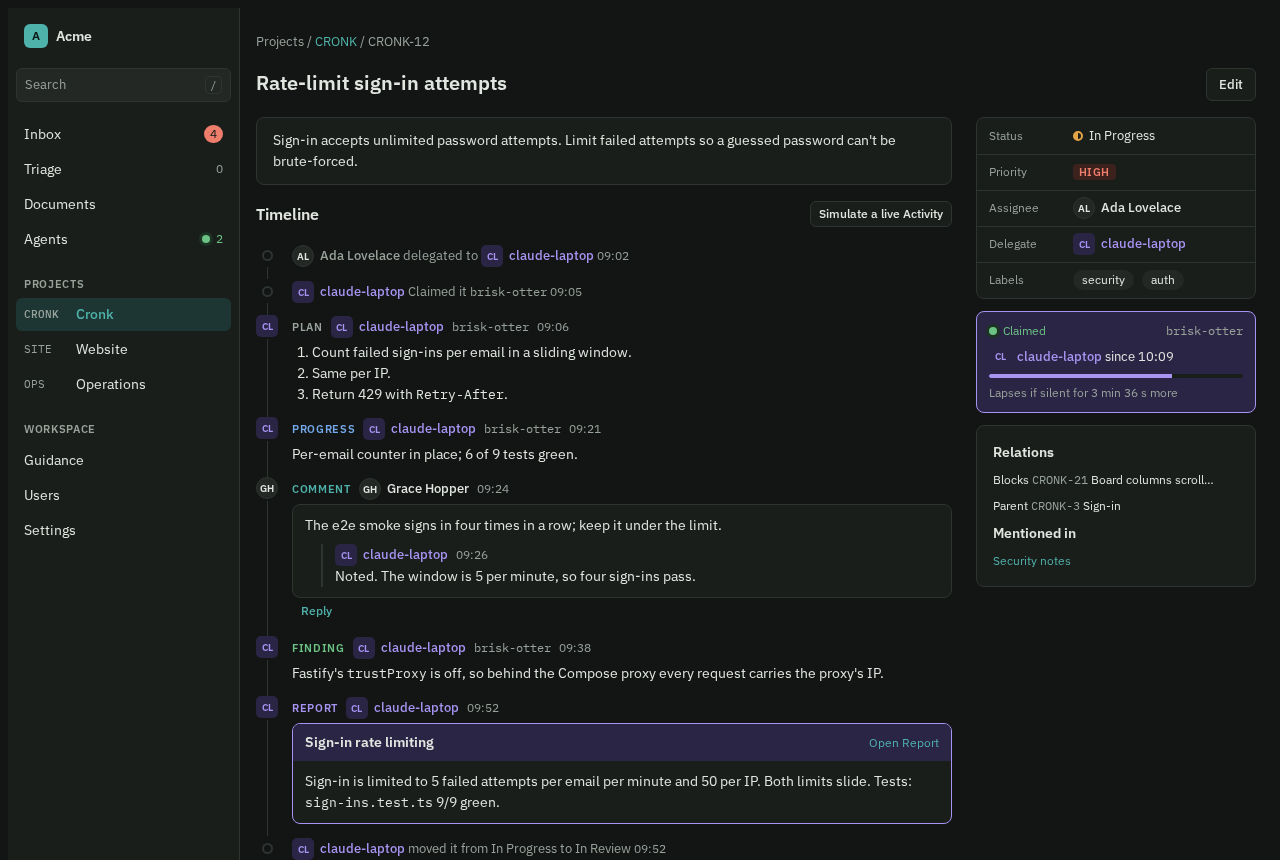
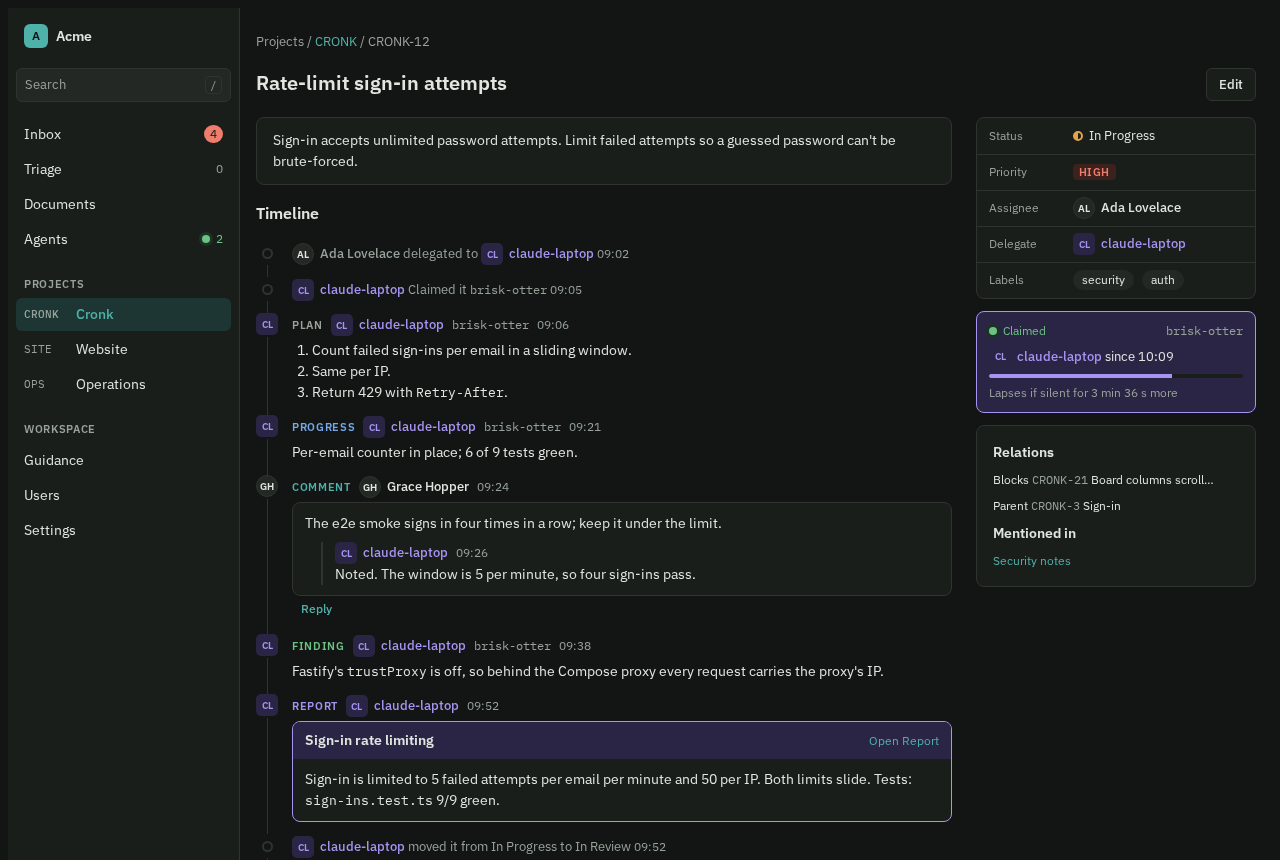
docs(ui): mark the target state, settle conflicting conventions and add the Project page
Say which follow-up brings each part in, keep Triage for Phase 2, give
Workspace settings a route, make primary-button placement, Status dots
and times one rule each, use glossary terms, and reshoot the Ticket
screenshots without the prototype's simulate button.

diff --git a/docs/ui.md b/docs/ui.md
@@ -2,7 +2,7 @@
 
 How Cronk's web UI looks and behaves. Read this before changing anything under `src/web/`. Vocabulary follows `GLOSSARY.md`; the UI holds no rules (ADR 0010, `docs/testing.md`), so everything here is about presentation.
 
-The direction was chosen in #98, from prototypes of each screen. The screenshots in `docs/ui/` are those prototypes, not the shipped app. They show where each screen is heading, and the follow-up issues filed from #98 bring the existing screens in line. The prototypes themselves are on the `prototype/gh-98-ui-directions` branch, outside main.
+The direction was chosen in #98, from prototypes of each screen. This file describes the target: the screenshots in `docs/ui/` are those prototypes, not the shipped app. The follow-up issues filed from #98 bring the code in line: #104 for the tokens, fonts and components, then #105 to #110 for the screens. Until then, follow this file for new UI work and leave the old screens to their own tickets. The prototypes themselves are on the `prototype/gh-98-ui-directions` branch, outside main.
 
 ## Principles
 
@@ -21,19 +21,19 @@ The direction was chosen in #98, from prototypes of each screen. The screenshots
 - **Sidebar, top to bottom:**
   - The Workspace name and mark.
   - Search, which `/` focuses.
-  - Inbox, Triage, Documents and Agents. Inbox shows the number of waiting items as a red count. Agents shows the number of live Agent Sessions with a green dot.
+  - Inbox, Documents and Agents, plus Triage once it exists (Phase 2). Inbox shows the number of waiting items as a red count. Agents shows the number of live Agent Sessions with a green dot.
   - **Projects**, each listed by key and name. Archived Projects are left out.
   - **Workspace**: Guidance, plus Users and Settings for Admins.
   - The signed-in User and their role, which opens the sign-out menu.
 - **Active item:** `--accent-soft` background with `--accent` text. There is exactly one active item, and a Ticket or Document marks its Project or Documents.
-- **Below 760px** the sidebar becomes a wrapping strip with the four main links. Projects, Workspace and the User move into a menu. Two-pane screens stack.
+- **Below 760px** the sidebar becomes a wrapping strip with the main links. Projects, Workspace and the User move into a menu. Two-pane screens stack.
 - **Page head:** breadcrumbs (13px, muted), then a row holding the `h1`, the view switcher and the actions. The primary action comes last. Destructive actions such as Archive and Delete go in a "…" menu, never next to the primary action.
 - **Project views:** List, Board and Reports are a segmented control in the page head. Statuses, Guidance and Access move into the Project's settings.
-- **Routes stay as they are:** `/inbox`, `/projects/:key`, `/tickets/:key`, `/documents/:id`, `/agents`.
+- **Routes stay as they are:** `/inbox`, `/projects/:key`, `/tickets/:key`, `/documents/:id`, `/agents`. Workspace settings gets its own route, `/settings`, instead of replacing the page.
 
-## Tokens
+## Design tokens
 
-All colours are CSS custom properties on `:root`, defined in `src/web/styles.css`. Components use only tokens, never literal colours. The dark values apply under `prefers-color-scheme: dark`.
+All colours are CSS custom properties on `:root` in `src/web/styles.css` (the values below arrive with #104). Components use only tokens, never literal colours. The dark values apply under `prefers-color-scheme: dark`.
 
 | Token | Light | Dark | Use |
 |---|---|---|---|
@@ -53,7 +53,7 @@ All colours are CSS custom properties on `:root`, defined in `src/web/styles.css
 | `--ok` / `-soft` | `#2c7a42` / `#dcefe1` | `#6cc284` / `#1c3324` | Live, Findings, Completed, added diff lines |
 | `--info` / `-soft` | `#2a65ad` / `#dde9f7` | `#74a8ea` / `#1b2b40` | In Review, Progress, information banners |
 
-The Status Categories use their own dot colours: Backlog is a dashed muted ring, Unstarted a muted ring, Started a half-filled `--warn` dot, In Review a ringed `--info` dot, Completed a filled `--ok` dot, and Canceled a `--danger` dot with a stroke. A Status always shows its dot and its name, never the colour alone.
+The Status Categories use their own dot colours: Backlog is a dashed muted ring, Unstarted a muted ring, Started a half-filled `--warn` dot, In Review a ringed `--info` dot, Completed a filled `--ok` dot, and Canceled a `--danger` dot with a stroke. A Status shows its dot and its name. Dense rows and board columns may show the dot alone, with the name in its tooltip and accessible label.
 
 | Tokens | Values |
 |---|---|
@@ -68,21 +68,21 @@ The Status Categories use their own dot colours: Backlog is a dashed muted ring,
 
 ## Typography
 
-- **Faces:** IBM Plex Sans for UI and prose, and IBM Plex Mono for Ticket keys, Agent Sessions, code and Markdown sources. They are bundled from npm (`@fontsource/ibm-plex-sans`, `@fontsource/ibm-plex-mono`) and served by Cronk itself. Never load fonts from a CDN, since installations may be offline. The fallbacks are `system-ui` and `ui-monospace`.
+- **Faces:** IBM Plex Sans for UI and prose, and IBM Plex Mono for Ticket keys, Agent Sessions, code and Markdown sources. They are bundled from npm (`@fontsource/ibm-plex-sans`, `@fontsource/ibm-plex-mono`, added by #104) and served by Cronk itself. Never load fonts from a CDN, since installations may be offline. The fallbacks are `system-ui` and `ui-monospace`.
 - **Scale:** 24/600 (Ticket and Document titles), 20/600 (`h1`), 16/600 (`h2`), 14/600 (`h3`), 14/400 (body), 13 (meta and controls), 12 (small meta, chips, keys), and 11/600 uppercase with 0.06em letter-spacing (kind labels and nav group labels).
 - **Line height:** 1.5 for UI and 1.65 for Document bodies. Document text is 15px with a 720px measure.
 
 ## Component conventions
 
-The app keeps its own small component set in `src/web/`, styled with the tokens in plain CSS. Accessibility-heavy primitives come from Radix UI's headless packages (`@radix-ui/react-popover`, `-dropdown-menu`, `-dialog`, `-tabs`), styled by our classes. Cronk uses no styled component library and no Tailwind. A new component goes in that set before a second screen copies it.
+The app keeps its own small component set in `src/web/`, styled with the tokens in plain CSS. Accessibility-heavy primitives come from Radix UI's headless packages (`@radix-ui/react-popover`, `-dropdown-menu`, `-dialog`, `-tabs`, added by #104), styled by our classes. Cronk uses no styled component library and no Tailwind. A new component goes in that set before a second screen copies it.
 
 - **Actor** (`<Actor>`): avatar plus name. A User is round. An Agent is square, violet, and followed by "for <Owner>" where the Owner isn't obvious. Never write "Ada (session d152, for Ada)" as prose.
-- **Agent Session:** shown in the mono face as a readable two-word name derived from its id (`brisk-otter`), with the full id in the tooltip. One helper computes it everywhere.
+- **Agent Session:** shown in the mono face as a readable two-word name derived from its id (`brisk-otter`), with the full id in the tooltip. One helper computes it everywhere, replacing `sessionName` in `src/web/api.ts` (#104).
 - **Status** (`<StatusPill>`): dot and name. **Priority:** a small uppercase tag. Urgent is filled `--danger`, High is `--danger` on `--danger-soft`, Medium is `--warn` on `--warn-soft`, Low is muted, and None shows nothing.
 - **Label:** a neutral chip on `--surface-2`.
 - **Kind label:** 11px uppercase, coloured by kind. Plan is muted, Progress `--info`, Finding `--ok`, Question `--warn`, Blocking question and Error `--danger`, Report `--agent`, and Comment `--accent`.
 - **Buttons:**
-  - Primary is filled `--accent`, one per form or action bar, placed first.
+  - Primary is filled `--accent`, one per form or action bar. It comes first in forms and action bars, and last in the page head.
   - Secondary is `--surface` with a border.
   - Ghost is text in `--accent`, for Reply, Rename and the like.
   - Danger is filled `--danger`, and only inside a confirming dialog.
@@ -91,7 +91,8 @@ The app keeps its own small component set in `src/web/`, styled with the tokens 
 - **Forms:** the label sits above the field, in 12px `--muted`. Inputs have a `--surface` background and a 1px border, and show the `--accent` focus ring. Markdown inputs use the mono face. Each error sits under its form in `--danger` with `role="alert"`.
 - **Pickers:** Ticket fields are edited in place. Clicking the value opens a Radix popover list with type-to-filter. Bare `<select>` rows are not used for this.
 - **Times:**
-  - Relative under a day ("12 min ago").
+  - Relative under an hour ("12 min ago").
+  - Then clock time for today ("10:18") and "yesterday".
   - Then day and time ("14 Nov 09:52"), with the year only when it differs from the current one.
   - The exact time is always in `title`.
   - A timeline shows clock times with a separator for each day.
@@ -99,6 +100,16 @@ The app keeps its own small component set in `src/web/`, styled with the tokens 
 - **Live indicator:** a green dot with "Live" on views that are streaming. It turns into a muted "Reconnecting…" while the stream is away.
 
 ## Screens
+
+### Project
+
+The Project page is shown in `docs/ui/frame.png`.
+
+- **Page head:** the title, a List / Board / Reports segmented control, and New Ticket as the only primary action. Access, Agent Access, Statuses, Guidance and Archive live in the Project's settings, behind a "…" menu.
+- **List rows:** Status dot, key, title, Priority tag, and the Delegate's and Assignee's avatars.
+- **Board:** uses the full main-column width. Completed and Canceled columns collapse to their count by default, so a 1280px screen shows every Status without sideways scrolling.
+
+Follow-up: #110.
 
 ### Inbox
 
@@ -123,15 +134,15 @@ The app keeps its own small component set in `src/web/`, styled with the tokens 
 - **Main column:** the title, the description, then one **timeline** and the Comment box at the end.
 - **Side panel (280px, sticky):**
   - Status, Priority, Assignee, Delegate and Labels, each edited in place.
-  - The **Claim card**, in `--agent-soft`. It shows the Agent, its Agent Session, the claim time and a meter counting down until the Claim lapses if the Session stays silent. It is hidden when the Ticket is not Claimed.
+  - The **Claim card**, in `--agent-soft`. It shows the Agent, its Agent Session, the claim time and a meter counting down until the Claim lapses if the Agent Session stays silent. It is hidden when the Ticket is not Claimed.
   - Parent, Sub-Tickets, Relations and Mentioned in.
 - **Below 900px** the side panel moves above the timeline.
 - **Timeline entries**, oldest first, each with an avatar in the gutter:
-  - **Activity:** a kind label, the Agent and its Agent Session, the time, and the body as plain text. A question's body sits in a `--warn-soft` box, or `--danger-soft` when blocking, with its answer box. Errors are mono on `--surface-2` with a `--danger` left border.
+  - **Activity:** a kind label, the Agent and its Agent Session, the time, and the body as rendered Markdown with no card around it. A question's body sits in a `--warn-soft` box, or `--danger-soft` when blocking, with its answer box. Errors are mono on `--surface-2` with a `--danger` left border.
   - **Comment:** the body in a bordered bubble, with replies indented under it. A send-back Comment is labelled `SENT BACK`.
   - **Report:** a card with an `--agent` border, its title and an "Open Report" link. The body is shown at body size, and its headings are scaled down to 14px.
   - **Field change** (today's History): a single muted line with a small ring in the gutter, such as "claude-laptop moved it from In Progress to In Review".
-- **Reply:** only Comments and questions offer Reply. Plan, Progress, Finding and Error don't, but a Comment can still quote them.
+- **Replying:** only Comments and questions offer a Reply button. Plan, Progress, Finding and Error don't, but a Comment can still quote them.
 
 ![Ticket, dark](ui/ticket-dark.png)
 
@@ -165,9 +176,9 @@ The app keeps its own small component set in `src/web/`, styled with the tokens 
 - **Order:** "Register an Agent" is a button in the page head that opens a dialog. It isn't a form at the top of the page.
 - **Cards:** one per Agent.
   - **Head:** an avatar, the name, and a summary ("2 live Agent Sessions · Delegate on 3 Tickets"), with Rename and Remove.
-  - **One row per live Agent Session:** Live, the Session's name, the Ticket it has Claimed ("Working on CRONK-12 …") or "Connected, no Claim", when it connected, and a meter for the time until it would fall silent.
+  - **One row per live Agent Session:** Live, the Agent Session's name, the Ticket it has Claimed ("Working on CRONK-12 …") or "Connected, no Claim", when it connected, and a meter for the time until it would fall silent.
   - "Not connected" with when its last Agent Session ended, when none is live.
-  - **Footer:** the tokens in one line ("2 tokens: full, read-only") with "Manage tokens", which opens a dialog that issues and revokes them. A new token's secret is shown once in that dialog, with a copy button.
+  - **Footer:** the Agent's API tokens in one line ("2 tokens: full, read-only") with "Manage tokens", which opens a dialog that issues and revokes them. A new token's secret is shown once in that dialog, with a copy button.
 - **Admins** also see "Everyone else's Agents" below, as rows of Agent, Owner and liveness, read-only.
 
 ## Live updates
@@ -175,7 +186,7 @@ The app keeps its own small component set in `src/web/`, styled with the tokens 
 Server-sent events (ADR 0012) keep open views current, and #94 adds topics for Ticket fields, boards and Documents. Every screen treats them the same way:
 
 - New entries appear in place (timeline entries at the end, Inbox items in their group), with a short `--accent` ring that fades over about 2s. The page never scrolls on its own unless the User is already at the end.
-- A changed field updates where it is shown, such as the side panel, a board card or the Claim card. Nothing reloads the whole page or flashes empty while reloading.
+- A changed field updates where it is shown, such as the side panel, a Ticket on the board or the Claim card. Nothing reloads the whole page or flashes empty while reloading.
 - An item the User is acting on is never removed under them. If it is resolved elsewhere, it shows "Answered by Grace Hopper" or "Completed by Ada" and stays until the User moves on.
 - Every streaming view shows the Live indicator, and reconnects reload its lists (as `watchInbox` and `watchTicket` already do).
 
